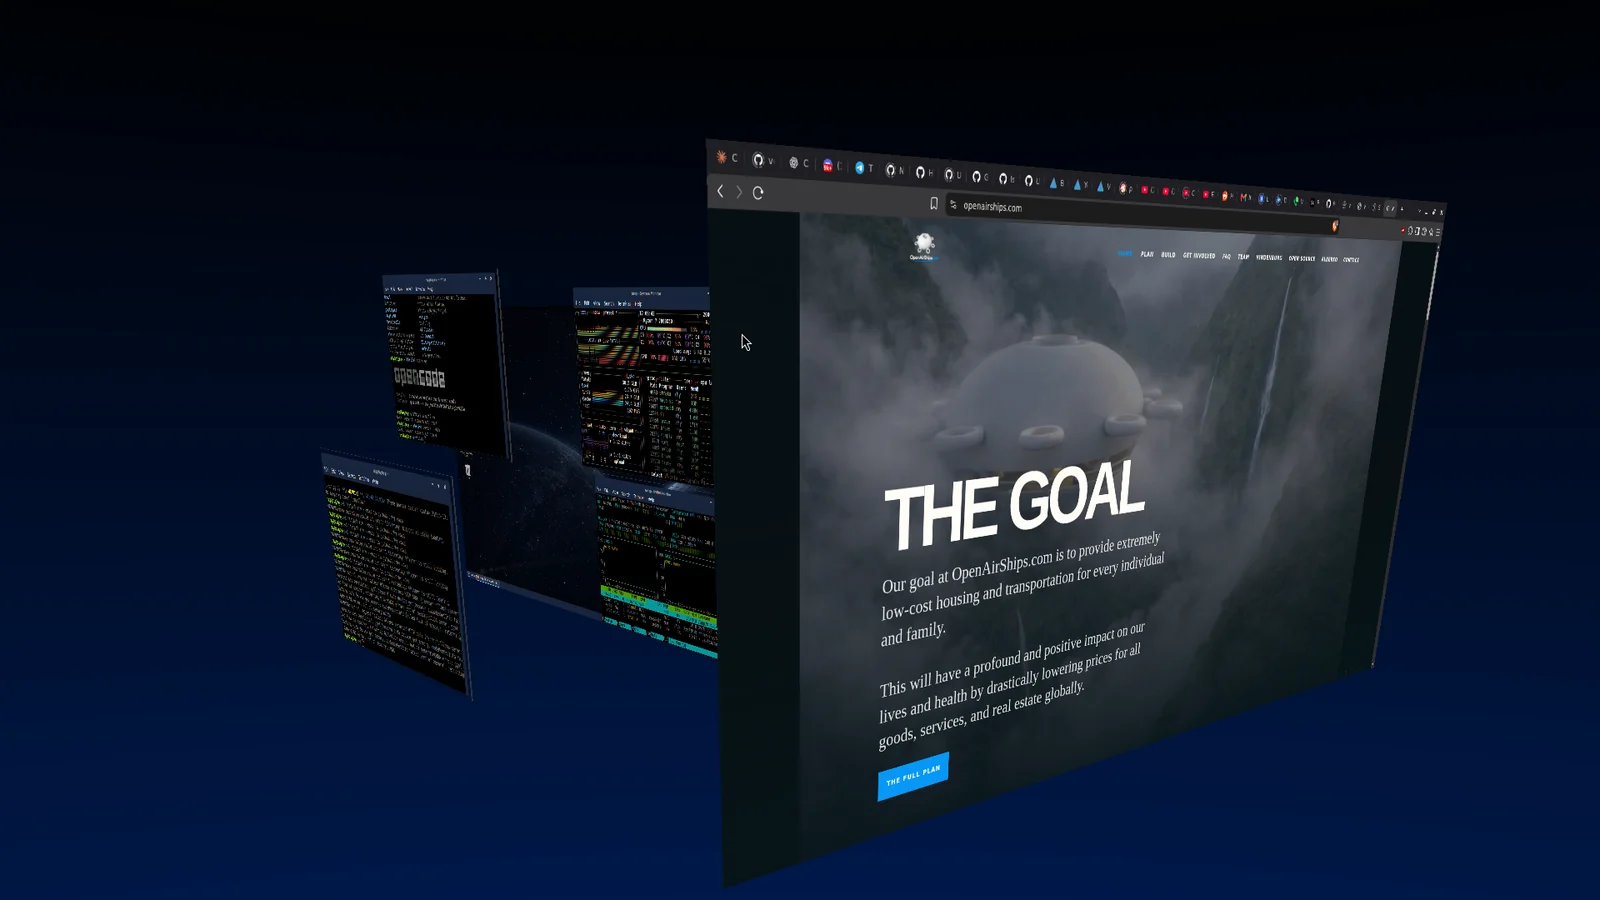
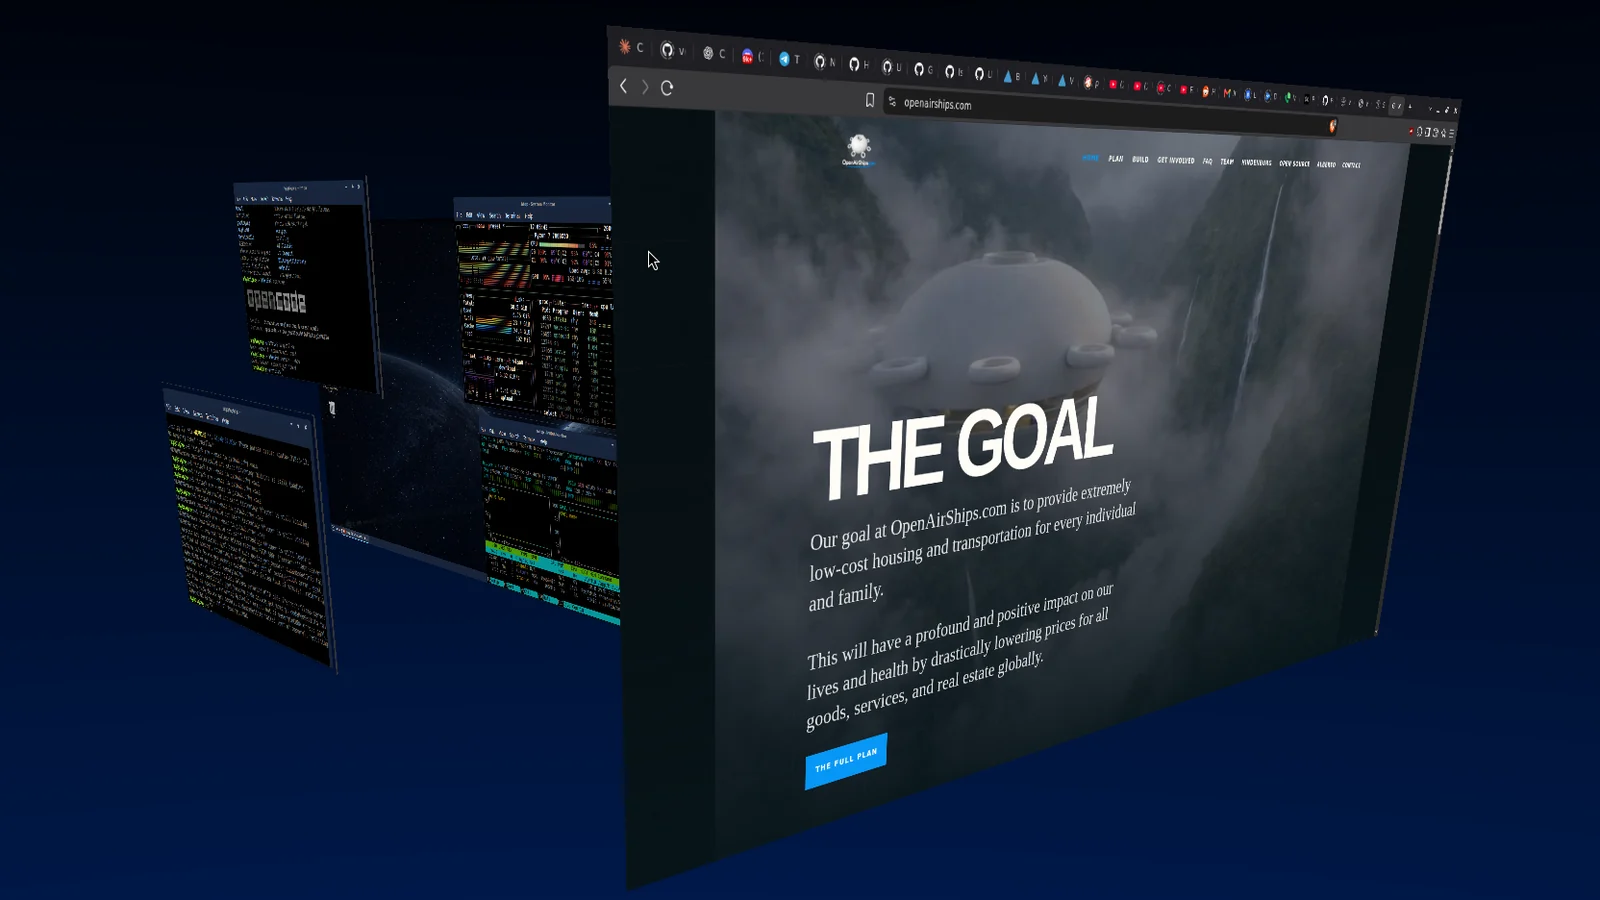
Website: tighter hero crop, current download links, ten themes
The Themes page still sent visitors to the 8.26.9 release, the home page
counted eleven themes where the chooser offers ten, and the help text
spoke of 9.26 and linked the 10.26 release instead of the latest one.

Changed region(s): [[0.0938, 0.0311, 0.9375, 0.9956]]

diff --git a/website/help.html b/website/help.html
@@ -31,7 +31,7 @@
 </section>
 
 <section class="section" id="testing">
-  <div class="heading"><p class="kicker">SPACED LINUX 10.26</p><h2>The October 2026 release.</h2><p>Spaced Linux 10.26 is available now. Download the ISO and matching checksum from the <a href="https://github.com/crhy/spaced/releases/tag/v10.26">Spaced Linux 10.26 release page</a>.</p></div>
+  <div class="heading"><p class="kicker">SPACED LINUX 10.26</p><h2>The October 2026 release.</h2><p>Spaced Linux 10.26 is available now. Download the newest ISO and matching checksum from the <a href="https://github.com/crhy/spaced/releases/latest">latest release page</a>.</p></div>
   <div class="grid">
     <article><h3>What is changing</h3><p>Work focuses on complete system and application updates, display settings, graphics-driver recovery, desktop stability, and clearer help. Larger new applications and partitioning features are tracked separately.</p></article>
     <article><h3>What still needs testing</h3><p>Physical NVIDIA and AMD GPUs, 4K displays, five-monitor arrangements, Wi-Fi cold starts, and suspend/resume need results from the affected hardware. A VM boot cannot confirm those fixes.</p></article>
@@ -63,10 +63,10 @@
 </section>
 
 <section class="section" id="graphics">
-  <div class="heading"><p class="kicker">GRAPHICS AND DISPLAYS</p><h2>Start with the detected hardware.</h2><p>In 9.26, open <strong>Spaced Video Drivers</strong> from the menu. Record your current GPU and display setup before a driver change, then keep the result and any error log.</p></div>
+  <div class="heading"><p class="kicker">GRAPHICS AND DISPLAYS</p><h2>Start with the detected hardware.</h2><p>Open <strong>Spaced Video Drivers</strong> from the menu. Record your current GPU and display setup before a driver change, then keep the result and any error log.</p></div>
   <div class="grid">
     <article><h3>NVIDIA</h3><p>Let Spaced Video Drivers check which packaged driver supports the exact GPU. Names such as “GT 730” cover different hardware variants. If the tool reports no supported package, keep the working driver and share the diagnostic report before attempting a replacement.</p></article>
-    <article><h3>AMD</h3><p>9.26 includes the AMDGPU TearFree setting reported to fix RX 7600 scrolling artifacts in <a href="https://github.com/crhy/spaced/issues/177">issue #177</a>. It applies to AMDGPU devices. Use the driver tool to check updates, reboot when requested, and test scrolling, video, games, and resume on your display.</p></article>
+    <article><h3>AMD</h3><p>Spaced Linux includes the AMDGPU TearFree setting reported to fix RX 7600 scrolling artifacts in <a href="https://github.com/crhy/spaced/issues/177">issue #177</a>. It applies to AMDGPU devices. Use the driver tool to check updates, reboot when requested, and test scrolling, video, games, and resume on your display.</p></article>
     <article><h3>Multiple monitors and 4K</h3><p>Use <strong>Monitor Preferences</strong> to set resolution and arrange displays to match your desk. Check one display at a time, then the complete layout. If a mode is absent or the arrangement will not save, include monitor connections and <code>spaced-graphics-report</code> output with the report.</p></article>
   </div>
   <p>If a driver change fails, keep the recovery result and log. Reboot after the tool confirms a completed change or successful recovery. An incomplete recovery needs attention before another driver change.</p>
@@ -84,7 +84,7 @@
 <section class="section" id="troubleshooting">
   <div class="heading"><p class="kicker">HELP US REPRODUCE IT</p><h2>Useful details make fixes easier.</h2><p>Include your Spaced version, whether you are using the live USB or an installed system, and the steps that trigger the problem. Tell us what you expected and what happened instead.</p></div>
   <div class="grid">
-    <article><h3>Displays and graphics</h3><p>Include the GPU model, driver, monitor connections, resolution, and refresh rate. In 9.26, run <code>spaced-graphics-report</code> in a terminal to collect display and driver details. Review the output before sharing it.</p></article>
+    <article><h3>Displays and graphics</h3><p>Include the GPU model, driver, monitor connections, resolution, and refresh rate. Run <code>spaced-graphics-report</code> in a terminal to collect display and driver details. Review the output before sharing it.</p></article>
     <article><h3>Virtual machines</h3><p>Include the VM application and version, BIOS or UEFI firmware, assigned RAM and CPUs, display adapter, and whether hardware acceleration is enabled.</p></article>
     <article><h3>GIMP freezes when changing size units</h3><p>If GIMP freezes when switching from pixels to percent, close it and try <code>flatpak run --env=NO_AT_BRIDGE=1 org.gimp.GIMP</code> in a terminal. This optional workaround disables GIMP’s screen-reader accessibility for that launch; do not use it if you need that support. Starting GIMP normally restores its usual behavior. The underlying bug remains under investigation.</p></article>
     <article><h3>Updates and applications</h3><p>Include the failing application or package name and the error message. Describe whether it came from SpacedUpdate, SpacedBazaar, or a terminal command.</p></article>

diff --git a/website/index.html b/website/index.html
@@ -96,11 +96,11 @@
   <div>
     <p class="kicker">COMING FROM WINDOWS?</p>
     <h2>Your PC still works. Keep using it.</h2>
-    <p>Windows 10 is no longer supported, and many good computers are not allowed to run Windows 11. Spaced Linux runs on them, costs nothing, and can look like the desktop you already know: there are eleven complete themes, including Windows XP and Windows 11 styles.</p>
+    <p>Windows 10 is no longer supported, and many good computers are not allowed to run Windows 11. Spaced Linux runs on them, costs nothing, and can look like the desktop you already know: there are ten complete themes, including Windows XP and Windows 11 styles.</p>
     <p>Your files stay yours, updates never restart your PC without asking, and there is no advertising in the desktop.</p>
     <a href="/themes.html">See the themes →</a>
   </div>
-  <button class="screenshot-button" type="button" data-image="/assets/screenshots/desktop-themes-six-tall.webp" data-title="Six of the eleven Spaced Linux themes">
+  <button class="screenshot-button" type="button" data-image="/assets/screenshots/desktop-themes-six-tall.webp" data-title="Six of the ten Spaced Linux themes">
     <img src="/assets/screenshots/desktop-themes-six-tall.webp" loading="lazy" alt="Six Spaced Linux themes: Spaced Dark, Spaced Light, macOS, Windows 11, Windows XP and Android styles">
   </button>
 </section>
@@ -169,7 +169,7 @@
       <figcaption><b>One coordinated identity</b><span>GTK, icons, wallpaper, panels, and Compiz presentation change together.</span></figcaption>
     </figure>
     <figure class="shot shot-wide shot-natural">
-      <button class="screenshot-button" type="button" data-image="/assets/screenshots/desktop-themes-six.webp" data-title="Six of the eleven Spaced Linux themes">
+      <button class="screenshot-button" type="button" data-image="/assets/screenshots/desktop-themes-six.webp" data-title="Six of the ten Spaced Linux themes">
         <img src="/assets/screenshots/desktop-themes-six.webp" loading="lazy" alt="Six Spaced Linux themes: Spaced Dark, Spaced Light, macOS, Windows 11, Windows XP and Android styles">
       </button>
       <figcaption><b>A desktop with range</b><span>Coordinated themes change the complete environment while preserving familiar behavior.</span></figcaption>
@@ -202,7 +202,7 @@
 <section id="help" class="section">
   <div class="heading"><p class="kicker">HELP WHEN YOU NEED IT</p><h2>Learn the desktop. Find the right app.</h2><p>Spaced Welcome includes a concise Compiz quick start and task-based app suggestions. Each suggestion opens the exact app page in SpacedBazaar, ready to install.</p></div>
   <div class="grid">
-    <article><h3>Compiz quick start</h3><p>Rotate the cube with Ctrl+Alt+left-drag and zoom with Shift+Super+mouse wheel. In 9.26, use Shift+Print to capture an area.</p></article>
+    <article><h3>Compiz quick start</h3><p>Rotate the cube with Ctrl+Alt+left-drag and zoom with Shift+Super+mouse wheel. Use Shift+Print to capture an area.</p></article>
     <article><h3>Choose by task</h3><p>Start with what you want to do—edit video, create graphics, record audio, play games, communicate, or write code.</p></article>
     <article><h3>Safe experimentation</h3><p>After setup, check Timeshift for the “Fresh install” restore point and confirm snapshots work on your disk layout. Keep a separate backup of personal files.</p></article>
   </div>

diff --git a/website/themes.html b/website/themes.html
@@ -32,7 +32,7 @@
     <a href="/#desktop">Desktop</a>
     <a href="/#advanced">Advanced</a>
     <a href="/#donate">Donate</a>
-    <a class="download" href="https://github.com/crhy/spaced/releases/tag/v8.26.9">Download</a>
+    <a class="download" href="/#install">Download</a>
   </nav>
 </header>
 
@@ -181,7 +181,7 @@
   <div>
     <p class="kicker">READY FOR MORE SPACE?</p>
     <h2>Get the release and make the desktop your own.</h2>
-    <div class="actions"><a class="button primary" href="https://github.com/crhy/spaced/releases/tag/v8.26.9">Download published 8.26.9</a><a class="button" href="/">Back to the homepage</a></div>
+    <div class="actions"><a class="button primary" href="/#install">Download Spaced Linux</a><a class="button" href="/">Back to the homepage</a></div>
   </div>
 </section>
 </main>
